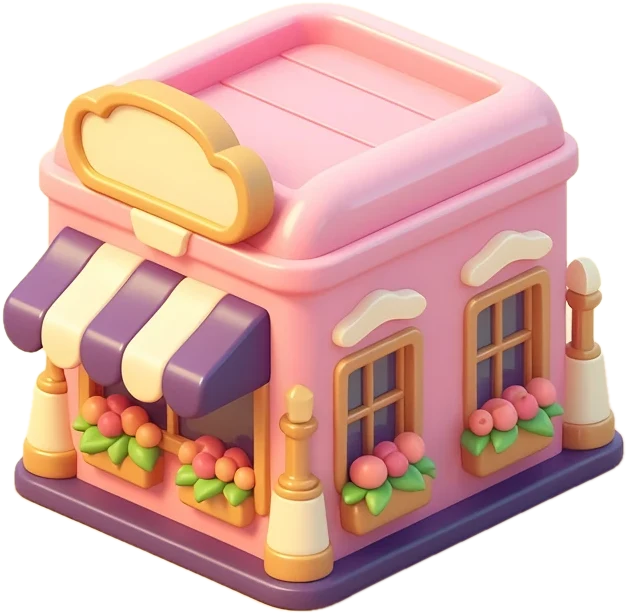
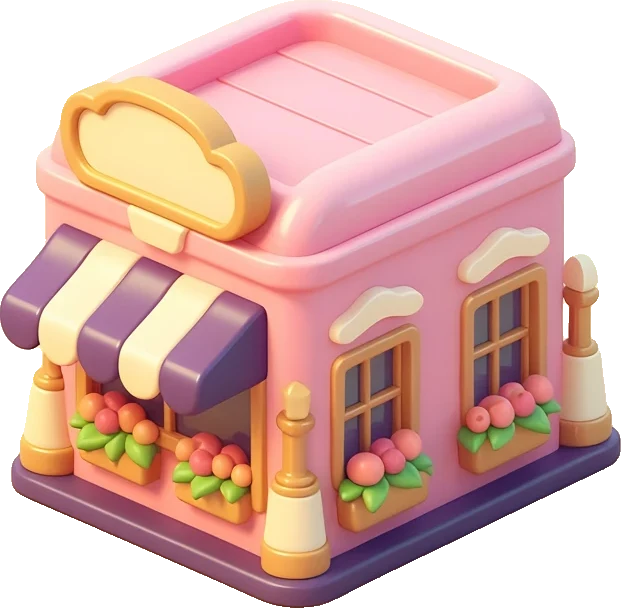
Add painted Stone Bridge, Grand Carousel and Silk Boutique landmarks
Cut out with a stronger background-removal model (also re-cut the
patisserie) and placed on their map plots; the bridge moved onto its plot.

Claude-Session: https://claude.ai/code/session_01UFwaAvE9Qev2U3W1b6GA4j

diff --git a/bingo-bloom.html b/bingo-bloom.html
@@ -1010,9 +1010,9 @@ function ribbon(lm, i) {
 }
 var MAP_W = 1344, MAP_H = 768, LM_S = .72;
 // plot centers on art/lobby-paris-map.webp, and each landmark's footprint (center offset and depth below center, in drawing units)
-var PLOT = { patisserie: [175, 300], cafe: [455, 640], bridge: [770, 205], carousel: [880, 440], boutique: [1235, 482] };
+var PLOT = { patisserie: [175, 300], cafe: [455, 640], bridge: [770, 250], carousel: [880, 440], boutique: [1235, 482] };
 // painted landmark pictures (art/landmark-*.webp): [file, width in map units, height/width]
-var LM_IMG = { patisserie: ['art/landmark-patisserie.webp', 230, 614 / 627] };
+var LM_IMG = { patisserie: ['art/landmark-patisserie.webp', 230, 608 / 621], bridge: ['art/landmark-bridge.webp', 250, 512 / 640], carousel: ['art/landmark-carousel.webp', 205, 640 / 526], boutique: ['art/landmark-boutique.webp', 185, 640 / 504] };
 function lmPicture(id, lvl, cx, baseY) {
   var im = LM_IMG[id], w = im[1], h = w * im[2], x = cx - w / 2, y = baseY - h;
   var s = '<ellipse cx="' + cx + '" cy="' + (baseY - 6) + '" rx="' + w * .46 + '" ry="' + w * .14 + '" fill="#5a3a20" opacity=".18"/>';
@@ -1021,7 +1021,7 @@ function lmPicture(id, lvl, cx, baseY) {
   if (lvl >= 3) s += spark(cx - w * .45, y + h * .25, 10, 0) + spark(cx + w * .42, y + h * .1, 8, .5) + spark(cx + w * .1, y - 6, 7, .9);
   return s;
 }
-var FOOTC = { patisserie: [10, 50, 50], cafe: [0, 50, 50], bridge: [78, 61, 61], carousel: [0, 0, 44], boutique: [0, 45, 45] };
+var FOOTC = { patisserie: [10, 50, 50], cafe: [0, 50, 50], bridge: [78, 61, 20], carousel: [0, 0, 44], boutique: [0, 45, 45] };
 function mapSvg() {
   var s = '<svg id="mapSvg" viewBox="0 0 ' + MAP_W + ' ' + MAP_H + '" preserveAspectRatio="xMidYMid meet" role="img" aria-label="The city of Paris that you build">';
   s += '<image href="art/lobby-paris-map.webp" x="0" y="0" width="' + MAP_W + '" height="' + MAP_H + '" preserveAspectRatio="xMidYMid slice"/>';
